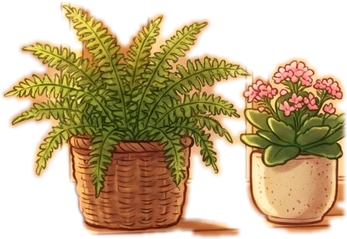
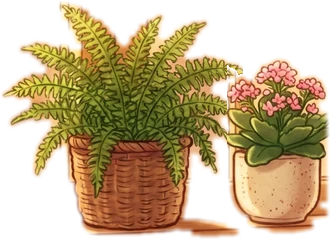
Soutien: sill plants off the jar, plaque name centred (#264)
* Plaque name centred in every browser; sill plants leave the window's sky open between their leaves, honey jar untouched

* Soutien sill: the kalanchoe moved off the honey jar, the window's rain under the plants, a tighter edge over the panes; plaque name measured on its brass, capitals a hair lower

---------

diff --git a/src/components/room/PaintedRoom.tsx b/src/components/room/PaintedRoom.tsx
@@ -549,6 +549,15 @@ function PaintedRoomView({
             <div className={`${styles.skyGlass} ${daytime ? styles.skyGlassDay : ""}`} />
           </div>
 
+          {/* rain running down the window: under a skin's things, a plant on the sill stays dry */}
+          <canvas
+            ref={rain}
+            className={`${styles.rain} ${daytime ? styles.off : ""}`}
+            width={Math.round(SCENE.window.w / 2)}
+            height={Math.round(SCENE.window.h / 2)}
+            style={{ ...place(SCENE.window), maskImage: windowMask, WebkitMaskImage: windowMask }}
+          />
+
           {/* a skin's decorations standing in the room (lib/shop), a warm glow flickering round the lit ones at night */}
           {skin?.art.decor?.map((d, i) => (
             <span key={i}>
@@ -591,15 +600,6 @@ function PaintedRoomView({
           })()}
 
           {skin?.art.spider && <SkinSpider spider={skin.art.spider} paused={paused} />}
-
-          {/* rain running down the window */}
-          <canvas
-            ref={rain}
-            className={`${styles.rain} ${daytime ? styles.off : ""}`}
-            width={Math.round(SCENE.window.w / 2)}
-            height={Math.round(SCENE.window.h / 2)}
-            style={{ ...place(SCENE.window), maskImage: windowMask, WebkitMaskImage: windowMask }}
-          />
 
           {/* steam: the painted wisp, boiling like a hand-drawn loop. One per backdrop, each fading with its
               own room, so the switch never shows a patch of the other one. */}

diff --git a/src/components/room/PaintedRoom.module.css b/src/components/room/PaintedRoom.module.css
@@ -1083,6 +1083,8 @@
   display: grid;
   place-items: center;
   text-align: center;
+  /* capitals centred by the maths look high: a hair lower */
+  padding-top: 0.14em;
   overflow: hidden;
   font-family: Georgia, "Times New Roman", serif;
   font-weight: bold;
